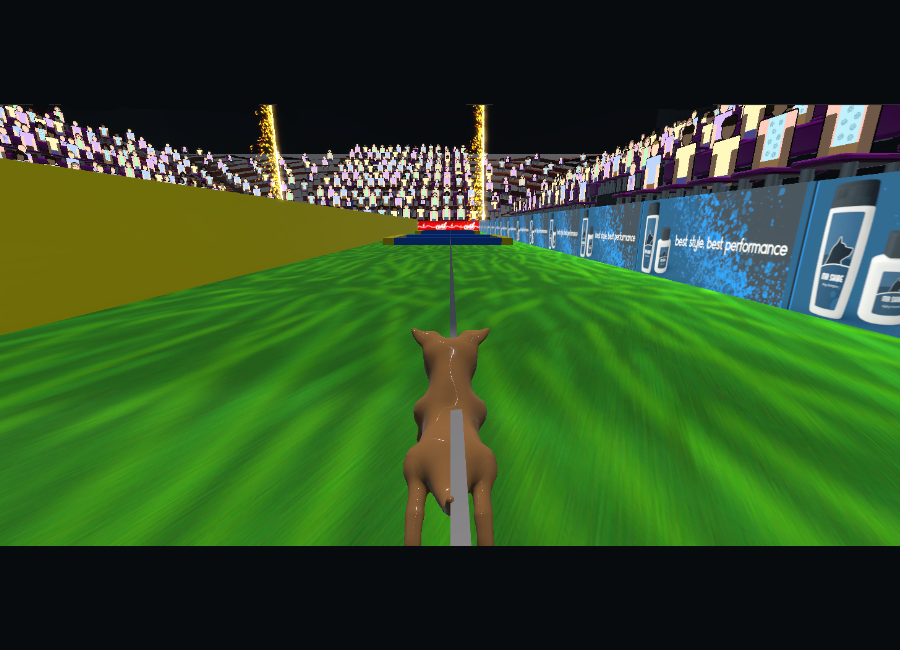
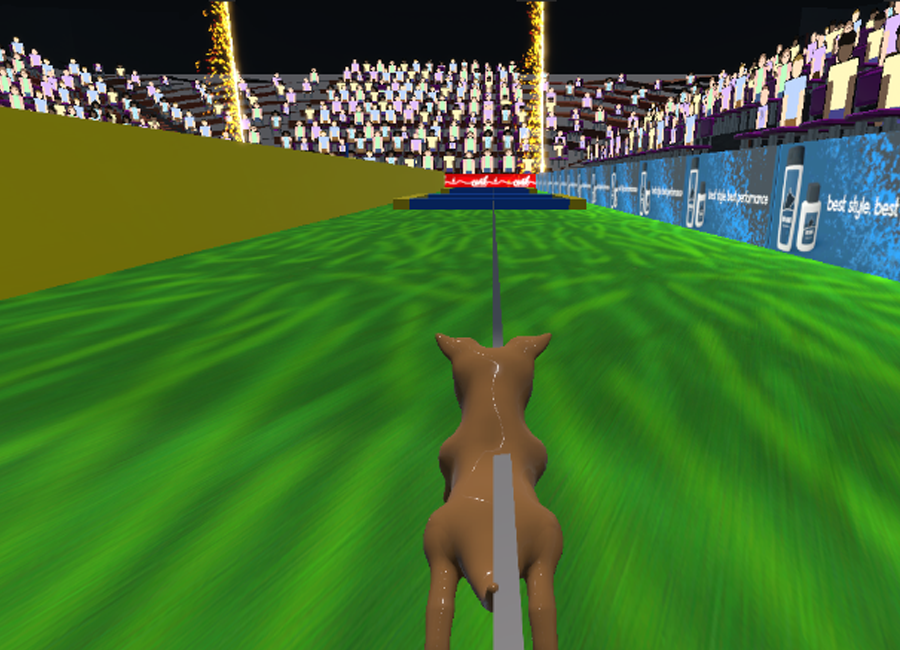
added multiplayer prototype

diff --git a/index.html b/index.html
@@ -115,7 +115,7 @@
                             <div class="portfolio-item-caption d-flex align-items-center justify-content-center h-100 w-100">
                                 <div class="portfolio-item-caption-content text-center text-white"><i class="fas fa-plus fa-3x"></i></div>
                             </div>
-                            <img class="img-fluid" src="assets/img/portfolio/submarine.png" alt="..." />
+                            <img class="img-fluid" src="assets/img/portfolio/multiplayer3.png" alt="..." />
                         </div>
                     </div>
                 </div>
@@ -134,7 +134,7 @@
                 </div>
                 <!-- About Section Content-->
                 <div class="row">
-                    <div class="col-lg-4 ms-auto"><p class="lead">Hi, I'm Callum and I am a 2nd year Games Programming student. I am proficient in C# and C++ through Unity and Unreal Engine respectively'</p></div>
+                    <div class="col-lg-4 ms-auto"><p class="lead">Hi, I'm Callum and I am a 3rd year Games Programming student. I am proficient in C# and C++ through Unity and Unreal Engine respectively'</p></div>
                     <div class="col-lg-4 me-auto"><p class="lead">You can create your own custom avatar for the masthead, change the icon in the dividers, and add your email address to the contact form to make it fully functional!</p></div>
                 </div>
             </div>
@@ -421,9 +421,10 @@
                                         <div class="divider-custom-line"></div>
                                     </div>
                                     <!-- Portfolio Modal - Image-->
-                                    <img class="img-fluid rounded mb-5" src="assets/img/portfolio/submarine.png" alt="..." />
+                                    <img class="img-fluid rounded mb-5" src="assets/img/portfolio/multiplayer.png" alt="..." />
                                     <!-- Portfolio Modal - Text-->
-                                    <p class="mb-4">Lorem ipsum dolor sit amet, consectetur adipisicing elit. Mollitia neque assumenda ipsam nihil, molestias magnam, recusandae quos quis inventore quisquam velit asperiores, vitae? Reprehenderit soluta, eos quod consequuntur itaque. Nam.</p>
+                                    <p class="mb-4">A simple prototype multiplayer game made in Unreal Engine 4 demonstrating networking and replication. This includes replication of object physics, health bars and player damage.</p>
+                                    <img class="img-fluid rounded mb-5" src="assets/img/portfolio/multiplayer2.png" alt="..." />
                                     <button class="btn btn-primary" data-bs-dismiss="modal">
                                         <i class="fas fa-xmark fa-fw"></i>
                                         Close Window
